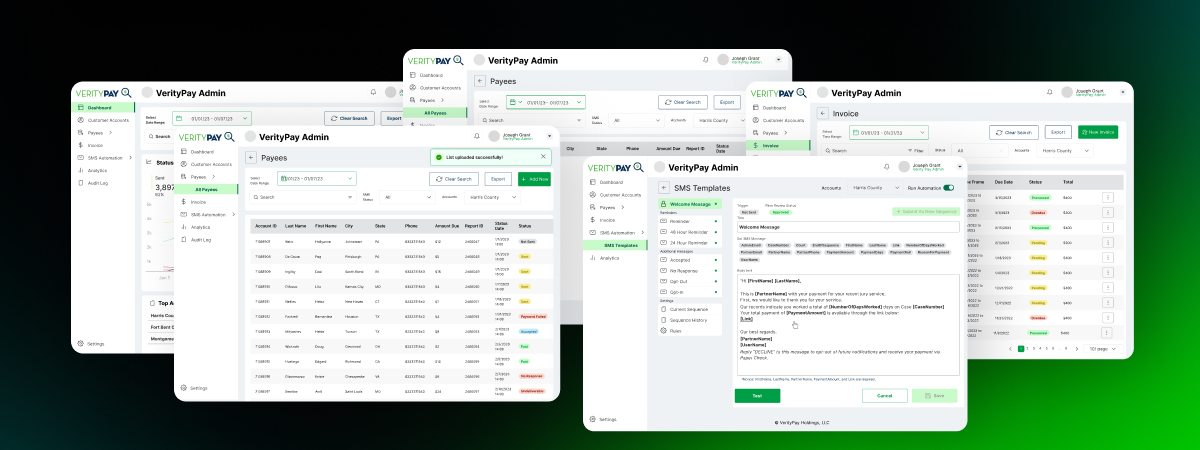
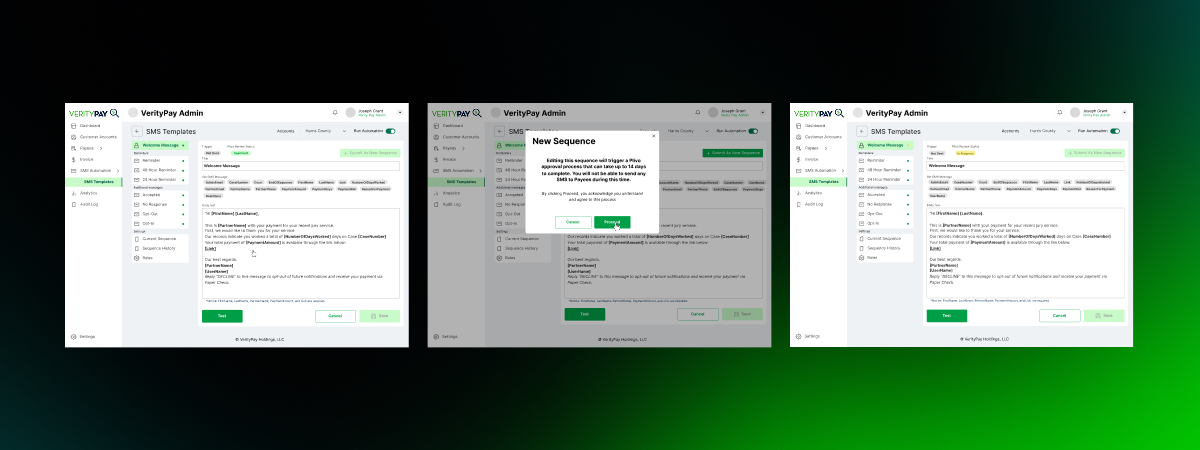
Cambios SMS

diff --git a/VerityPaySMSTemplate.html b/VerityPaySMSTemplate.html
@@ -181,52 +181,10 @@
 
               </div>
             </div>
-            <div class="col-8 text-center"><a href="https://www.figma.com/design/h4ndpMXre6TTYW3RycVejg/VerityPay_Design?node-id=46-377&t=rPW6ihyCjtxesbc5-1" target="_blank" class=" btn-primary" >View final prototype</a></div>
+            <div class="col-8 text-center"><a href="https://www.figma.com/design/h4ndpMXre6TTYW3RycVejg/VerityPay_Design?node-id=22171-103477&t=r3PWWyz3SbtkQYUa-1" target="_blank" class=" btn-primary" >View final prototype</a></div>
           </div>
         </div>
 </section>
-
-
-  
-  <!-- #Design Process - Design Thinking -->
-  <section class="mb-xl">
-    <div class="container">
-      <div class="grid content">
-        <div class="col-8">
-          <div class="content-block">
-            <h3>Design Process</h3>
-            <h2>A user-centered, iterative approach</h2>
-            <p>I followed the Design Thinking framework to ensure a user-centered approach throughout the design of VerityPay. This methodology helped me deeply understand user needs, define key problems, explore viable solutions, and validate them through continuous testing and iteration.</p>
-            <p>
-              Although the project followed a 6-month roadmap, the process was intentionally non-linear. Insights gained at later stages often informed earlier decisions, allowing me to revisit and refine research findings, flows, and interface decisions as the product evolved.
-            </p>
-          </div>
-        </div>
-      </div>
-      <div class="design-process-grid">
-        <div class="design-process-card">
-          <h4>01 Empathize</h4>
-          <p>I focused on understanding how businesses currently send payments to consumers and the frustrations caused by checks, complex apps, and slow reconciliation..</p>
-        </div>
-        <div class="design-process-card">
-          <h4>02 Define</h4>
-          <p>Businesses needed a faster, more secure, and low-effort way to send payments without requiring apps, registrations, or technical setup for consumers.</p>
-        </div>
-        <div class="design-process-card">
-          <h4>03 Ideate</h4>
-          <p>I explored solutions centered around instant SMS payments, real-time tracking, and simplified payment management for both businesses and consumers.</p>
-        </div>
-        <div class="design-process-card">
-          <h4>04 Prototype</h4>
-          <p>I designed low to high-fidelity flows to validate how users receive, manage, and track payments directly through text messages.</p>
-        </div>
-        <div class="design-process-card">
-          <h4>05 Test</h4>
-          <p>Usability testing helped validate clarity, trust, and ease of use, ensuring the payment experience felt simple, secure, and effortless.</p>
-        </div>
-      </div>
-    </div>
-  </section>
 
   
   <section class="mb-xl">
@@ -235,7 +193,7 @@
         <div class="col-8">
           <div class="content-block">
             <h3 class="text-center">Research Phase</h3>
-            <h2 class="text-center">Understanding the Student path</h2>
+            <h2 class="text-center">Building the SMS template Pilvo approval and sequences</h2>
           </div>
         </div>
       </div>
@@ -249,9 +207,8 @@
         <div class="col-8">
           <div class="content-block">
             <h3>Competitive Analysis</h3>
-            <h2>Existing university apps often provide fragmented access to academic tools, forcing students to switch between multiple platforms to complete basic tasks.</h2>
-            <p>I reviewed existing consumer payment solutions to understand how businesses currently send and manage payouts. While many platforms offer digital payments, most rely on complex onboarding, multiple apps, or outdated processes that create friction for both businesses and consumers.</p>
-            <p>This analysis revealed a clear opportunity for VerityPay to stand out by delivering instant SMS-based payments, reducing setup requirements, lowering costs, and simplifying the overall payment experience.</p>
+            <h2>ESMS-Based Payments vs. Traditional Payout Platforms</h2>
+            <p>Many traditional payment platforms introduce friction by requiring app downloads, account creation, or multi-step payout flows. These barriers often lead to delayed payments, higher abandonment, and lower user trust. In contrast, SMS-based payment systems prioritize speed and simplicity, allowing Payees to receive funds through direct, secure messages while enabling Payors to deliver payments with real-time visibility and fewer failure points.</p>
             <img src="images/projects/VerityPayCompetitiveAnalysis.png" alt="">
           </div>
         </div>
@@ -379,7 +336,9 @@
           <div class="content-block">
             <h3>User Interviews</h3>
             <h2>What the data revealed</h2>
-            <p>Through comprehensive user research —including interviews with 100 participants (60 university students and 40 high school students)— I gathered quantitative data that revealed clear patterns and priorities. These insights directly informed the redesign strategy, focusing on clarity, simplification, and improved system reliability.</p>
+            <p>Through focused user research — including interviews with 10 Payors and 20 Payees — we gathered qualitative and quantitative insights into how SMS-based payments are created, approved, and delivered in VerityPay. While both roles interact with SMS payments, the research prioritized Payors, who are responsible for configuring and managing SMS templates at scale.</p>
+
+            <p>The findings revealed key patterns around approval visibility, confidence in message compliance, and readiness for mass delivery. Payors expressed a strong need for clear template status, predictable approval timelines, and assurance that approved messages would be reliably delivered through the SMS provider. These insights directly informed improvements to the SMS Payments and Template Approval system, reinforcing transparency, reducing operational uncertainty, and enabling Payors to confidently trigger large-scale payment communications.</p>
           </div>
         </div>
       </div>
@@ -387,24 +346,24 @@
       <!-- Key Stats Callouts -->
       <div class="key-stats-grid">
         <div class="stat-callout">
-          <div class="stat-number">78%</div>
-          <div class="stat-label">of comparable platforms require account creation or app installation, introducing friction before payments can be completed.</div>
+          <div class="stat-number">80%</div>
+          <div class="stat-label">of traditional payment platforms require users to download an app or create an account, adding unnecessary friction before a payment can be received.</div>
         </div>
         <div class="stat-callout">
-          <div class="stat-number">65%</div>
-          <div class="stat-label">of users prefer receiving payments via simple channels (SMS or email) over dedicated apps, especially for one-time or infrequent payments.</div>
+          <div class="stat-number">70%</div>
+          <div class="stat-label">of Payees prefer receiving payments through direct SMS notifications, especially for one-time or infrequent payouts, due to speed and ease of use.</div>
         </div>
         <div class="stat-callout">
-          <div class="stat-number">50%</div>
-          <div class="stat-label">of competitor platforms rely on multiple payment steps, increasing abandonment risk during payout processes.</div>
+          <div class="stat-number">55%</div>
+          <div class="stat-label">of payout failures are linked to multi-step payment flows, while SMS-based payment links reduce abandonment by keeping the process simple and immediate.</div>
         </div>
         <div class="stat-callout">
-          <div class="stat-number">30%</div>
-          <div class="stat-label">Platforms offering real-time payment tracking report up faster reconciliation times compared to batch-based systems.</div>
+          <div class="stat-number">35%</div>
+          <div class="stat-label">faster payment completion is achieved on platforms that deliver payments via SMS with real-time tracking, compared to email-only or portal-based systems.</div>
         </div>
         <div class="stat-callout">
-          <div class="stat-number">25%</div>
-          <div class="stat-label">Higher user confidence security and compliance messaging</div>
+          <div class="stat-number">40%</div>
+          <div class="stat-label">higher user confidence is reported when payments are delivered through secure, compliant SMS messaging with clear sender identification and confirmation steps.</div>
         </div>
       </div>
 
@@ -413,7 +372,7 @@
         <!-- Finding 1 -->
         <div class="finding-card">
           <div class="finding-header">
-            <h4>1. Calendar as the Core Feature</h4>
+            <h4>Payors value simplicity over customization</h4>
             <div class="finding-chart">
               <div class="bar-chart-container">
                 <div class="bar-chart-label">82%</div>
@@ -422,14 +381,14 @@
             </div>
           </div>
           <div class="finding-body">
-            <p>82% of students identified the calendar as the most valuable feature. This metric emerged from asking students to rank app features by usefulness; the calendar consistently appeared in the top position, confirming that schedule visibility is a primary need.</p>
+            <p>Payors consistently prioritized the ability to send payments quickly through predefined, approved SMS templates, rather than spending time creating or managing complex message variations.</p>
           </div>
         </div>
 
         <!-- Finding 2 -->
         <div class="finding-card">
           <div class="finding-header">
-            <h4>2. Information Accessibility</h4>
+            <h4>Template approval increases confidence and usage</h4>
             <div class="finding-chart">
               <div class="bar-chart-container">
                 <div class="bar-chart-label">68%</div>
@@ -438,14 +397,14 @@
             </div>
           </div>
           <div class="finding-body">
-            <p>68% reported that finding information was generally straightforward, though several students noted inconsistencies depending on the section. This was measured through task-based questions where students rated difficulty accessing schedules, grades, and announcements.</p>
+            <p>Clear approval status for SMS templates reduced hesitation among Payors and increased their willingness to use SMS as the primary payment delivery channel.</p>
           </div>
         </div>
 
         <!-- Finding 3 -->
         <div class="finding-card">
           <div class="finding-header">
-            <h4>3. UI Friction & Unnecessary Elements</h4>
+            <h4>Message clarity directly impacts payment completion</h4>
             <div class="finding-chart">
               <div class="bar-chart-container">
                 <div class="bar-chart-label">43%</div>
@@ -454,14 +413,14 @@
             </div>
           </div>
           <div class="finding-body">
-            <p>43% pointed out that unnecessary or broken external links negatively affected their experience. This insight came from a question specifically addressing "elements that interrupt or confuse navigation," with external links being the most frequent response.</p>
+            <p>Both Payors and Payees showed higher completion rates when SMS messages were concise, clearly branded, and followed a consistent structure enabled by approved templates.</p>
           </div>
         </div>
 
         <!-- Finding 4 -->
         <div class="finding-card">
           <div class="finding-header">
-            <h4>4. Synchronization Issues as a Major Pain Point</h4>
+            <h4>Reliable SMS delivery strengthens trust in the platform</h4>
             <div class="finding-chart">
               <div class="bar-chart-container">
                 <div class="bar-chart-label">41%</div>
@@ -470,51 +429,11 @@
             </div>
           </div>
           <div class="finding-body">
-            <p>41% stated that sync-related issues (loading delays, outdated schedules, or missing notifications) were their biggest challenge in daily usage. Students were asked to select the single most disruptive issue in the app, revealing synchronization as the dominant frustration.</p>
-          </div>
-        </div>
-
-        <!-- Finding 5 -->
-        <div class="finding-card">
-          <div class="finding-header">
-            <h4>5. Overall Positive Experience</h4>
-            <div class="finding-chart">
-              <div class="bar-chart-container">
-                <div class="bar-chart-label">62%</div>
-                <div class="bar-chart-bar" style="width: 62%; background: linear-gradient(90deg, #ED8D18 0%, #FFAE4C 100%);"></div>
-              </div>
-            </div>
-          </div>
-          <div class="finding-body">
-            <p>Despite existing problems, 62% described their overall experience as positive. This was measured with a standard satisfaction scale (1–5), with 62% selecting 4 or 5.</p>
-          </div>
-        </div>
-
-        <!-- Finding 6 -->
-        <div class="finding-card">
-          <div class="finding-header">
-            <h4>6. Improved Personal Organization</h4>
-            <div class="finding-chart">
-              <div class="bar-chart-container">
-                <div class="bar-chart-label">74%</div>
-                <div class="bar-chart-bar" style="width: 74%; background: linear-gradient(90deg, #ED8D18 0%, #FFAE4C 100%);"></div>
-              </div>
-            </div>
-          </div>
-          <div class="finding-body">
-            <p>74% said that using the app helped them stay more organized, particularly due to schedule visibility and reminders. This metric was derived from a yes/no question plus written explanations that reinforced the calendar's central importance.</p>
+            <p>Payors perceived the SMS payment system as more dependable when templates were pre-approved and validated, reinforcing trust in VerityPay for high-volume or time-sensitive payouts.</p>
           </div>
         </div>
 
 
-      </div>
-
-      <!-- Conclusion -->
-      <div class="findings-conclusion">
-        <div class="content-block">
-          <p><strong>These quantitative findings directly shaped the redesign strategy, prioritizing clarity, simplification, and improved system reliability.</strong> The data revealed that while students value the app's core functionality, there are clear opportunities to enhance the user experience by addressing synchronization issues, removing unnecessary elements, and strengthening the calendar feature that students rely on most.</p>
-        </div>
-      </div>
     </div>
   </section>
 
@@ -534,7 +453,7 @@
                 <div class="title">Pain Point 1</div>
               </div>
               <div class="body"> 
-                <p>That the app does not have real-time notifications for important changes.</p>
+                <p>Lack of visibility into whether SMS templates are approved and ready for mass sending</p>
               </div>
             </li>
             <li>
@@ -542,7 +461,7 @@
                 <div class="title">Pain Point 2</div>
               </div>
               <div class="body"> 
-                <p>The lack of integration with other tools like personal calendars.</p>
+                <p>Delays or failed payouts caused by unapproved or non-compliant messaging.</p>
               </div>
             </li>
             <li>
@@ -550,7 +469,15 @@
                 <div class="title">Pain Point 3</div>
               </div>
               <div class="body"> 
-                <p>A confusing interface that makes it difficult to quickly find the information they need.</p>
+                <p>Reduced Payor confidence when payment communication status is unclear</p>
+              </div>
+            </li>
+            <li>
+              <div class="head">
+                <div class="title">Pain Point 4</div>
+              </div>
+              <div class="body"> 
+                <p>Higher abandonment rates in payment flows with too many steps or unclear instructions</p>
               </div>
             </li>
           </ul>
